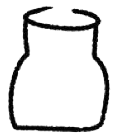
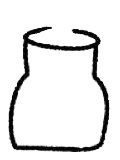
add overflow options

Changed region(s): [[0.05, 0.0286, 0.925, 0.9714]]

diff --git a/main.css b/main.css
@@ -44,7 +44,7 @@ h1{
 }
 .block{
     position: relative;
-    height: 180px;
+    height: 200px;
     width: 120px;
 }
 
@@ -52,8 +52,8 @@ h1{
     position: absolute;
     bottom:1px;
     left: 1px;
-    height: 28%;
-    width: 90%;
+    height: 26%;
+    width: 98%;
     background-color: aqua;
 }
 

diff --git a/main.js b/main.js
@@ -11,7 +11,8 @@ function add(id){
     if(isNaN(cur))cur=28;
     console.log(cur);
     cur += 10;
-    if(cur>=80)cur=28;
+    if(cur>100)cur=26;
+    if(cur>=80)cur=98;
     surface.style.height = cur+"%";
 }
 
